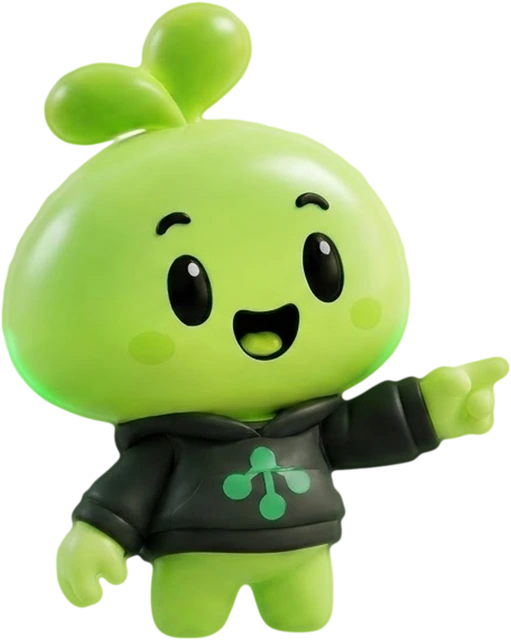
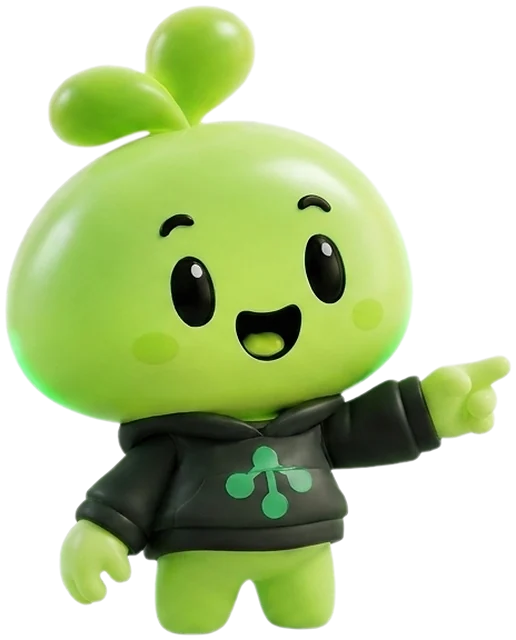
fix(landing): corrige los recortes de Nico y renueva la imagen del cierre

diff --git a/Landing/index.html b/Landing/index.html
@@ -13,7 +13,7 @@
   <link rel="icon" href="favicon.png" type="image/png">
   <link rel="apple-touch-icon" href="apple-touch-icon.png">
   <link rel="preload" href="fuentes/PlusJakartaSans-800.woff2" as="font" type="font/woff2" crossorigin>
-  <link rel="stylesheet" href="estilos.css">
+  <link rel="stylesheet" href="estilos.css?v=20261118c">
   <script src="tema.js"></script>
 </head>
 <body>
@@ -110,7 +110,7 @@
           <div class="escenario__nico soft3d" data-inclinar>
             <span class="escenario__disco" aria-hidden="true"></span>
             <span class="soft3d__piso" aria-hidden="true"></span>
-            <img class="soft3d__img" src="medios/nico/conoce-saluda.webp" alt="Nico, la mascota de Núcleo, saluda con la mano" width="663" height="960" fetchpriority="high">
+            <img class="soft3d__img" src="medios/nico/conoce-saluda.webp?v=20261118c" alt="Nico, la mascota de Núcleo, saluda con la mano" width="674" height="960" fetchpriority="high">
             <div class="burbuja--hero" role="status" aria-live="polite">
               <b>Nico</b>
               <span id="saludo">¡Hola! Soy Nico, el guía de Núcleo.</span>
@@ -149,7 +149,7 @@
           <article class="celda celda--nico anim" data-anim="escala">
             <div class="soft3d" data-inclinar>
               
-              <img class="soft3d__img" src="medios/nico/funciona-senala.webp" alt="Nico, la mascota verde de Núcleo, señalando con la mano" width="511" height="640" loading="lazy">
+              <img class="soft3d__img" src="medios/nico/funciona-senala.webp?v=20261118c" alt="Nico, la mascota verde de Núcleo, señalando con la mano" width="516" height="640" loading="lazy">
               <span class="soft3d__piso" aria-hidden="true"></span>
             </div>
             <div class="nico-dice">
@@ -225,7 +225,7 @@
             <h2 class="titulo-partido">Todo tu monitoreo en <em>un solo tablero</em></h2>
           </div>
           <div class="narra anim" data-anim="der">
-            <div class="narra__nico soft3d soft3d--chico"><img class="soft3d__img" src="medios/nico/plataforma-holograma.webp" alt="" width="691" height="640" loading="lazy"></div>
+            <div class="narra__nico soft3d soft3d--chico"><img class="soft3d__img" src="medios/nico/plataforma-salta.webp" alt="" width="526" height="640" loading="lazy"></div>
             <p><b>Nico</b>Este es mi tablero. Toca las pestañas: así se ve Núcleo por dentro, con datos de una empresa de prueba.</p>
           </div>
         </header>
@@ -267,7 +267,7 @@
             <h2 class="titulo-partido">Tus espacios, <em>en el bolsillo</em></h2>
           </div>
           <div class="narra anim" data-anim="der">
-            <div class="narra__nico soft3d soft3d--chico"><img class="soft3d__img" src="medios/nico/app-pulgar.webp" alt="" width="423" height="640" loading="lazy"></div>
+            <div class="narra__nico soft3d soft3d--chico"><img class="soft3d__img" src="medios/nico/app-pulgar.webp?v=20261118c" alt="" width="427" height="640" loading="lazy"></div>
             <p><b>Nico</b>¿Saliste de la oficina? Yo sigo vigilando. Si algo se sale de rango te mando una notificación y desde ahí mismo la atiendes.</p>
           </div>
         </header>
@@ -304,7 +304,7 @@
             <h2 class="titulo-partido">Núcleo: el sensor que hace <em>todo el trabajo</em></h2>
           </div>
           <div class="narra anim" data-anim="der">
-            <div class="narra__nico soft3d soft3d--chico"><img class="soft3d__img" src="medios/nico/dispositivo-guino.webp" alt="" width="458" height="640" loading="lazy"></div>
+            <div class="narra__nico soft3d soft3d--chico"><img class="soft3d__img" src="medios/nico/dispositivo-nucleo.webp" alt="" width="625" height="640" loading="lazy"></div>
             <p><b>Nico</b>Este es mi cuerpo. Toca cualquier parte del dibujo y te cuento para qué sirve.</p>
           </div>
         </header>
@@ -358,7 +358,7 @@
             <h2 class="titulo-partido">Nico AI responde con <em>tus datos reales</em></h2>
           </div>
           <div class="narra anim" data-anim="der">
-            <div class="narra__nico narra__nico--busto soft3d soft3d--chico"><img class="soft3d__img" src="medios/nico/ai-responde.webp" alt="" width="508" height="640" loading="lazy"></div>
+            <div class="narra__nico soft3d soft3d--chico"><img class="soft3d__img" src="medios/nico/preguntas-piensa.webp" alt="" width="420" height="640" loading="lazy"></div>
             <p><b>Nico</b>Yo consulto las cifras en el sistema y te las explico. Nunca invento un número: si no lo sé, te lo digo.</p>
           </div>
         </header>
@@ -471,7 +471,7 @@
             </div>
           </div>
           <div class="narra anim" data-anim="der">
-            <div class="narra__nico soft3d soft3d--chico"><img class="soft3d__img" src="medios/nico/planes-celebra.webp" alt="" width="540" height="640" loading="lazy"></div>
+            <div class="narra__nico soft3d soft3d--chico"><img class="soft3d__img" src="medios/nico/planes-celebra.webp?v=20261118c" alt="" width="543" height="640" loading="lazy"></div>
             <div class="narra__cuerpo">
               <p><b>Nico</b>Los planes son del servicio y <strong>no incluyen el dispositivo Núcleo</strong>: cambian por cuántos Núcleos puedes dar de alta, cuánto guardas y cuántas preguntas me haces.</p>
               <button class="btn btn--contorno btn--chico" id="precioBtn" aria-expanded="false" aria-controls="precioNucleo">¿Cuánto vale un Núcleo? <svg class="ico"><use href="#i-chip"/></svg></button>
@@ -557,7 +557,7 @@
               <a class="btn btn--linea" href="https://bynucleo.com">Entrar a la plataforma <svg class="ico"><use href="#i-flecha"/></svg></a>
             </div>
           </div>
-          <figure class="cierre__imagen anim" data-anim="subir"><img src="medios/escenas/cierre-aire.webp" alt="Nico celebra junto a un dispositivo Núcleo entre nubes y árboles" width="680" height="680" loading="lazy"></figure>
+          <figure class="cierre__imagen anim" data-anim="subir"><img src="medios/nico/cierre-guino.webp" alt="Nico guiña un ojo y levanta un dedo" width="692" height="860" loading="lazy"></figure>
         </div>
       </div>
     </section>
@@ -565,7 +565,7 @@
 
   <footer class="pie">
     <div class="contenedor pie__in">
-      <img class="pie__sello" src="medios/nico/pie-sello.webp" alt="" width="227" height="320" loading="lazy">
+      <img class="pie__sello" src="medios/nico/pie-sello.webp?v=20261118c" alt="" width="228" height="320" loading="lazy">
       <a href="#inicio" aria-label="Volver al inicio"><img src="medios/nucleo-logo-verde.svg" alt="Núcleo" width="88" height="39"></a>
       <nav aria-label="Enlaces">
         <a href="https://bynucleo.com">Plataforma web</a>
@@ -582,7 +582,7 @@
   <!-- Nico guía -->
   <aside class="guia" id="guia" aria-live="polite" hidden>
     <button class="guia__cerrar" id="guiaCerrar" aria-label="Ocultar a Nico"><svg class="ico"><use href="#i-x"/></svg></button>
-    <img src="medios/nico/guia-cara.webp" alt="" width="56" height="56">
+    <img src="medios/nico/guia-cara.webp?v=20261118c" alt="" width="256" height="256">
     <p class="guia__texto" id="guiaTexto"></p>
   </aside>
 
@@ -602,6 +602,6 @@
 
   <div class="aviso" id="aviso" role="status" aria-live="polite" hidden></div>
 
-  <script src="landing.js" defer></script>
+  <script src="landing.js?v=20261118c" defer></script>
 </body>
 </html>

diff --git a/Landing/estilos.css b/Landing/estilos.css
@@ -958,7 +958,7 @@ h2, .preguntas h2, .cierre__texto h2 { font-size: clamp(34px, min(4.6vw, 7.6svh)
 .hero__sub { max-width: 560px; font-size: clamp(17px, 1.45vw, 21px); line-height: 1.38; font-weight: 500; letter-spacing: -.01em; color: var(--texto-2); }
 .escenario__nico { display: block; min-width: 0; height: 100%; }
 .escenario__disco { position: absolute; left: 43%; bottom: 7%; width: calc(var(--esc) * .84); aspect-ratio: 1; translate: -50% 0; border-radius: 50%; background: var(--disco); box-shadow: inset 0 3px 0 rgba(255, 255, 255, .12), inset 0 -18px 36px rgba(11, 65, 40, .16), 0 24px 44px -24px rgba(11, 65, 40, .5); }
-.escenario__nico .soft3d__img { position: absolute; left: 43%; bottom: 20px; width: auto; max-width: none; height: var(--nico-alto); margin-left: calc(var(--nico-alto) * -.3453); }
+.escenario__nico .soft3d__img { position: absolute; left: 43%; bottom: 20px; width: auto; max-width: none; height: var(--nico-alto); margin-left: calc(var(--nico-alto) * -.351); }
 .escenario__nico .soft3d__piso { left: 43%; bottom: 10px; z-index: 0; width: calc(var(--esc) * .46); height: 26px; }
 .burbuja--hero b { display: block; font-size: 13px; color: var(--verde-texto); }
 .burbuja--hero { position: absolute; z-index: 2; top: 18px; right: 14px; width: 196px; min-height: 84px; padding: 10px 14px; border-radius: 22px 22px 22px 6px; background: var(--celda); box-shadow: var(--suave-alta); font-size: 14.5px; line-height: 1.35; }
@@ -977,7 +977,7 @@ h2, .preguntas h2, .cierre__texto h2 { font-size: clamp(34px, min(4.6vw, 7.6svh)
   .hero h1 { font-size: clamp(46px, 11vw, 88px); }
   .escenario__nico { height: calc(var(--esc) + 112px); margin-top: 28px; }
   .escenario__disco { left: 50%; bottom: 118px; }
-  .escenario__nico .soft3d__img { left: 50%; bottom: 112px; height: var(--esc); margin-left: calc(var(--esc) * -.345); }
+  .escenario__nico .soft3d__img { left: 50%; bottom: 112px; height: var(--esc); margin-left: calc(var(--esc) * -.351); }
   .escenario__nico .soft3d__piso { left: 50%; bottom: 102px; }
   .burbuja--hero { top: auto; left: 14px; right: 14px; bottom: 14px; width: auto; min-height: 84px; border-radius: 22px; font-size: 15px; }
   .bento--hero > .celda--numero { grid-column: span 2; flex-direction: column; align-items: flex-start; gap: 10px; padding: 20px; }
@@ -1011,3 +1011,9 @@ h2, .preguntas h2, .cierre__texto h2 { font-size: clamp(34px, min(4.6vw, 7.6svh)
   .niveles-nico li { flex-direction: row; gap: 8px; }
   .niveles-nico img { width: 34px; height: 34px; }
 }
+
+/* Cierre: Nico sale desde el borde inferior de la tarjeta */
+.cierre__tarjeta { --cierre-pad: clamp(28px, 4vw, 56px); overflow: hidden; padding: var(--cierre-pad); }
+.cierre__imagen { align-self: end; justify-self: center; width: 100%; max-width: 430px; margin: 0 0 calc(var(--cierre-pad) * -1); border-radius: 0; overflow: visible; box-shadow: none; }
+.cierre__imagen img { display: block; width: 100%; height: auto; filter: drop-shadow(0 14px 22px rgba(11, 65, 40, .35)); }
+@media (max-width: 900px) { .cierre__imagen { max-width: 320px; } }

diff --git a/Landing/README.md b/Landing/README.md
@@ -22,9 +22,8 @@ Landing/
 ├── fuentes/        Plus Jakarta Sans (.woff2)
 └── medios/
     ├── nico/        Nico sin fondo: conoce-saluda (portada), funciona-senala (Conoce a Nico), funciona-aparato (Cómo funciona),
-    │                plataforma-holograma, app-pulgar, dispositivo-guino, ai-responde, planes-celebra, comparar-asoma,
-    │                preguntas-piensa, guia-cara, pie-sello y nivel-normal, nivel-advertencia y nivel-peligro (caras de cada alerta)
-    ├── escenas/     cierre-aire (llamado final)
+    │                plataforma-salta, app-pulgar, dispositivo-nucleo, planes-celebra, comparar-asoma,
+    │                preguntas-piensa, cierre-guino (llamado final), guia-cara, pie-sello y nivel-normal, nivel-advertencia y nivel-peligro (caras de cada alerta)
     ├── pasos/       paso-1-coloca, paso-2-recibe y paso-3-actua (de «Intégrate a Núcleo en tres pasos»)
     ├── capturas/    Capturas reales de la web y la app, en claro/ y oscuro/ (empresa demo de sembrar_demo)
     ├── video/       hero-presentacion: video de Nico y el cuadro que se muestra al compartir la página
